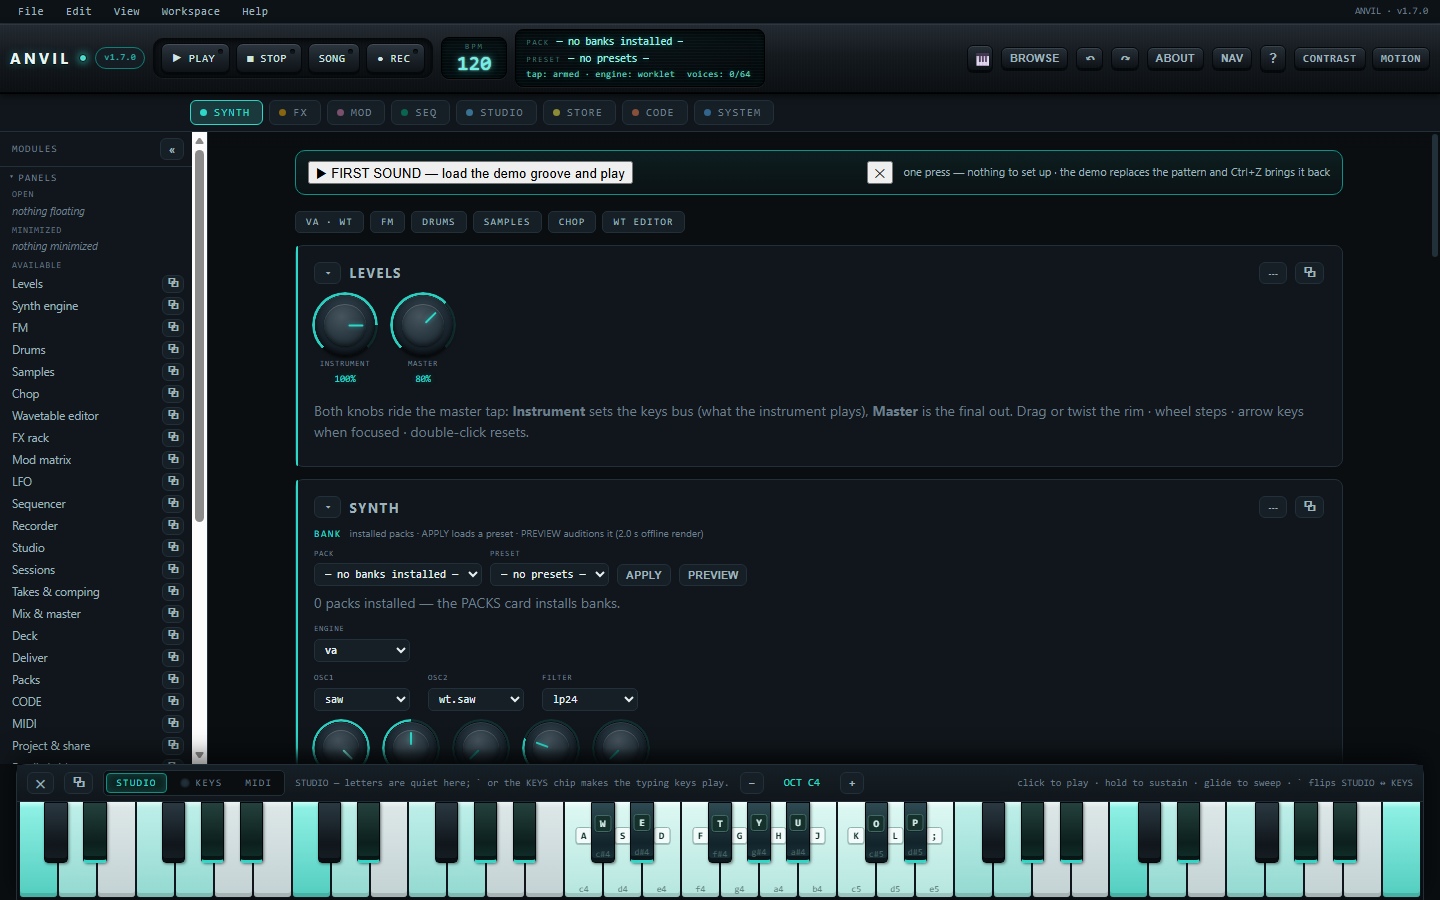
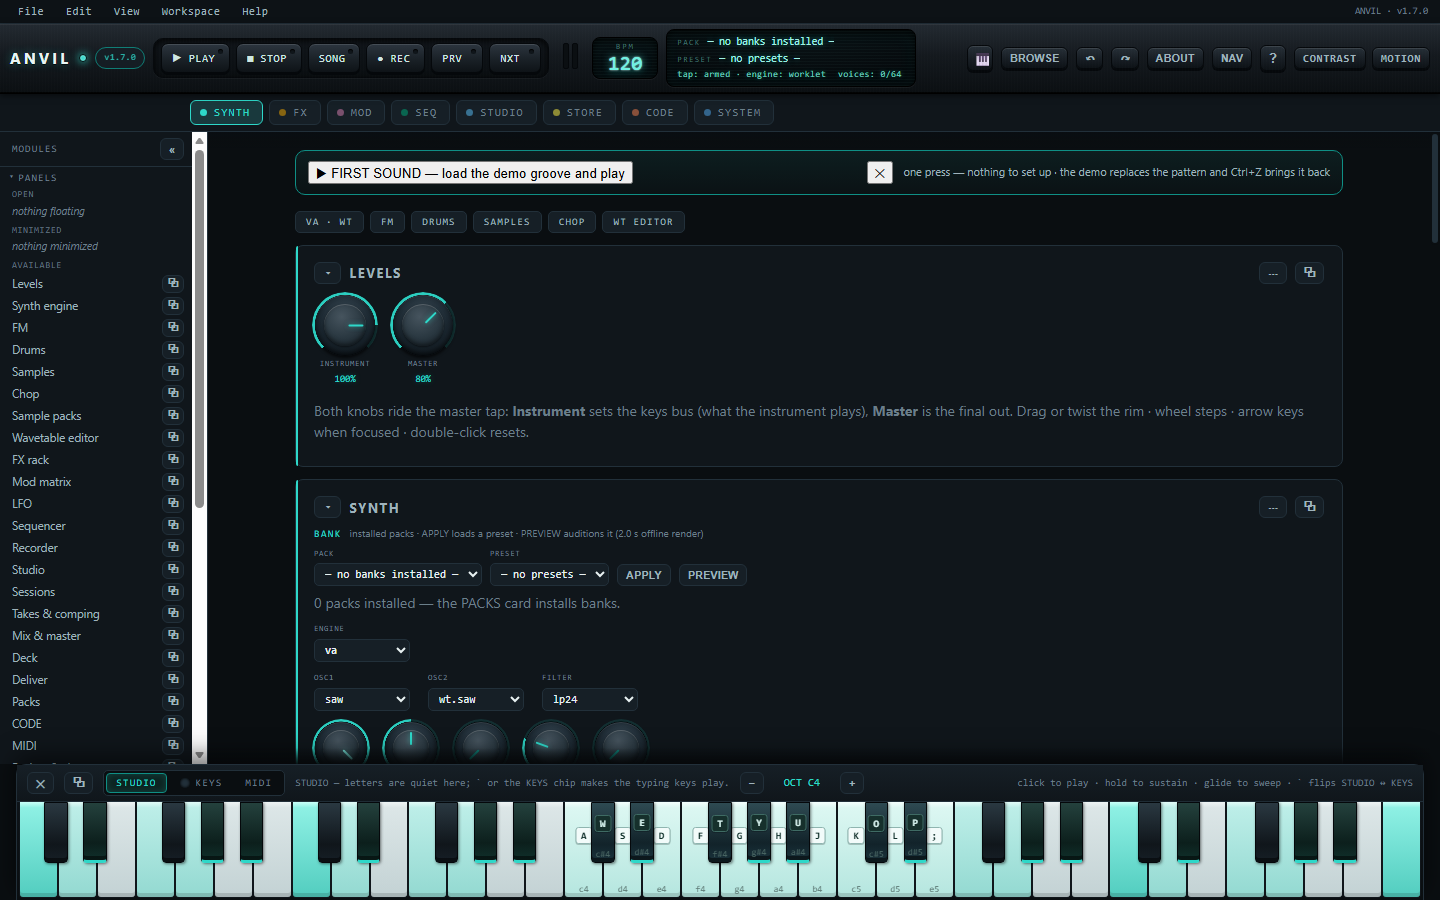
R15b close: addendum 51 (SAMPLE PACKS SHIPPED - frozen cb1128e2 deployed + live-verified; battery 24+bench green; cdp_import 15/15; leak 11/11 live; live capture inspected)

diff --git a/CONTINUATION-2026-10-06.md b/CONTINUATION-2026-10-06.md
@@ -2029,27 +2029,40 @@ Resume phrase: **"continue anvil"**.
   sniffer + canonical bundle + IDB library + WAV/MP3/AIFF/MIDI (REX2 if budget). Resume phrase
   "continue anvil".
 
-## Resume addendum 51 (WIP) - 2026-10-09 (R15b DISPATCHED: SAMPLE PACKS contract staged + 5 children in flight)
+## Resume addendum 51 - 2026-10-09 (R15b SAMPLE PACKS SHIPPED: import card + AIFF/REX2 clean-room readers + local library LIVE)
 
-- `verify/_r15b_wave.md` AUTHORED (all app-side pins source-verified: sample store/send API,
-  zone v2 laws, store IDB plumbing, chop/grain/seq load flows, card completeness trio, pin
-  sweep). Integration script STAGED: `cache/r1/int_r15b.py` — `--anchors` DRY pass GREEN
-  (8 files, 8 edits; every anchor captured from fresh repr() probes; all targets LF).
-- Contract corrections applied PRE-dispatch: (1) the library load path ROUTES BY FORMAT —
-  AIFF/REX2 cannot go through decodeAudioData (browsers refuse AIFF), so avLib decodes them via
-  AVAIFF/AVRex and builds the AudioBuffer page-side behind the session-cap guard; (2) `.exs` is
-  DEFERRED (adapter planned R15c), not refused — counts read deferred 1 / refused 0; (3) the
-  pattern load flow = avSeqLoad -> avSeqSetPattern(avSeqSnap()) -> avSeqUiSync -> undo "import"
-  (avSeqLoad alone only updates the core model; the scheduler needs the explicit push).
-- DISPATCHED `deleg_2d2c1f1d` (background, 5 parallel children): src/av_aiff.js (clean-room
-  AIFF reader) · src/av_rex.js (BUDGET: REX2 DWOP decoder) · src/av_import.js (sniffer + policy
-  + pipeline) · src/av_lib.js (IDB library) · src/av_import_ui.js (the SAMPLE PACKS card).
-  Every brief: read the contract first; write-file-first; node --check only (aiff/rex get a
-  scratch unit-harness allowance under cache/r15b/).
-- AT LANDING (parent sequence, do not re-derive): artifact guard (marker per child file) ->
-  `python3 cache/r1/int_r15b.py` real pass -> `python3 build.py` -> `node verify/cdp_smoke.mjs`
-  (expect **63**, first-run) -> pins sweep 21 files (`cache/r1/sweep_r15b.py` from sweep_r14) ->
-  battery **24 suites** (adds NEW `verify/cdp_import.mjs` — parent still to author) + bench ->
-  records commit -> deploy index.html + sw.js -> scoped --verify 0 -> live pass (leak 11/11;
-  renders/r15b-live-import.png) -> addendum 51 final. REX2 witness = node harness in
-  cache/r15b/rex/ (fixture scratch only, nothing ships). Resume phrase "continue anvil".
+- DELIVERED + DEPLOYED + LIVE-VERIFIED: frozen `cb1128e2` (3,716,625 B; sw `b4a0109e`), live
+  moddys.net/anvil (scoped --verify = 0 not in sync; live sha = frozen). Smoke **63/63**
+  first-run · NEW `cdp_import` rig **15/15** (real-file import, rx2 end-to-end decode, IDB
+  reload persistence, load/send/chop/seq wires, absent-host + proof contracts) · battery
+  **24 suites ALL GREEN first-lap** + bench exit=0 (offline knee 96/128 monotone, invalidReads
+  0; worklet sha `b65160e0` UNCHANGED — page-side wave) · leak probe **11/11 LIVE** · live
+  capture `renders/r15b-live-import.png` inspected (card + rail row real on the site).
+- SHIPPED: `src/av_import.js` (magic-byte sniffer + 18-format policy + canonical bundle
+  pipeline; honest deferrals/refusals per docs/11) · `src/av_aiff.js` (clean-room AIFF/AIFF-C
+  reader; 52/52 scratch harness, incl. the 80-bit ext-float rate reader) · `src/av_rex.js`
+  (FULL REX2 DWOP decode — 30/30 harness incl. spec anchors: SDAT words, frame-322 vector,
+  reference slice tables; in-browser decode 117,760 frames @ 44.1 kHz proven in the rig) ·
+  `src/av_lib.js` (IDB `av-samples-store`; route-by-format load; the avBankSeqApply seq push
+  flow) · `src/av_import_ui.js` (the SAMPLE PACKS card, synth zone, folder drop + report +
+  library) · parent wiring (build.py parts, body.html card, rail + chrome, app_core init + boot
+  log, styles R15b block) · `verify/cdp_import.mjs`.
+- APP BUG found by the new rig and fixed in the landing pass: the card cleared `input.value`
+  BEFORE reading `files.length` — Chromium's FileList is LIVE, so the file-picker change
+  handler always read 0 and the import silently never ran (the smoke could not catch it: it
+  drove the core directly). Fix = snapshot the FileList to an array first (the av_sample
+  pattern). LAW: any input[type=file] change path snapshots files BEFORE clearing value.
+- Rig lessons: `DOM.setFileInputFiles` on the hidden input WORKS (fires change; the earlier
+  "no-op" was the app bug); `decodeAudioData` RESAMPLES to the live context (the native load
+  path asserts 48 kHz / 0.05 s preserved; the clean-room AIFF path preserves the source rate —
+  smoke witnesses 8 frames @ 8000 Hz); the card's public report view carries no per-item meta
+  (read `avLibList().items[].meta`); the leak probe takes the DIRECTORY url — it appends `/`
+  itself, so passing index.html turns it into index.html/ = 404.
+- Commits: 2af8ad7 (contract WIP) -> 7523458 (checkpoint) -> a7845a9 (records) -> close commit
+  (this addendum). In-flight scripts stay in `cache/r1/` (int_r15b, sweep_r15b, battery_r15b,
+  fix2-fix7) + `cache/r15b/` (aiff/rex harnesses, live_shot, fixtures) — all untracked scratch.
+- NEXT: **R15c** (docs/11) — EXS24 adapter (binary TBOS; ISC/MIT parsers exist) + the
+  Serum-preset 30-min spike (+ wavetables -> OSC2) + ADG/ALS gzip-XML sample-ref extraction +
+  SXT REFE refs + NKI partial + NBKT metadata — all reuse this wave's pipeline (new adapters
+  register in AV_IMPORT_POLICY). Optional follow-ups: REX2 slices -> chop-kit mapping, zip
+  reading (drop-folder covers V1), f64-WAV reader. Resume phrase "continue anvil".
